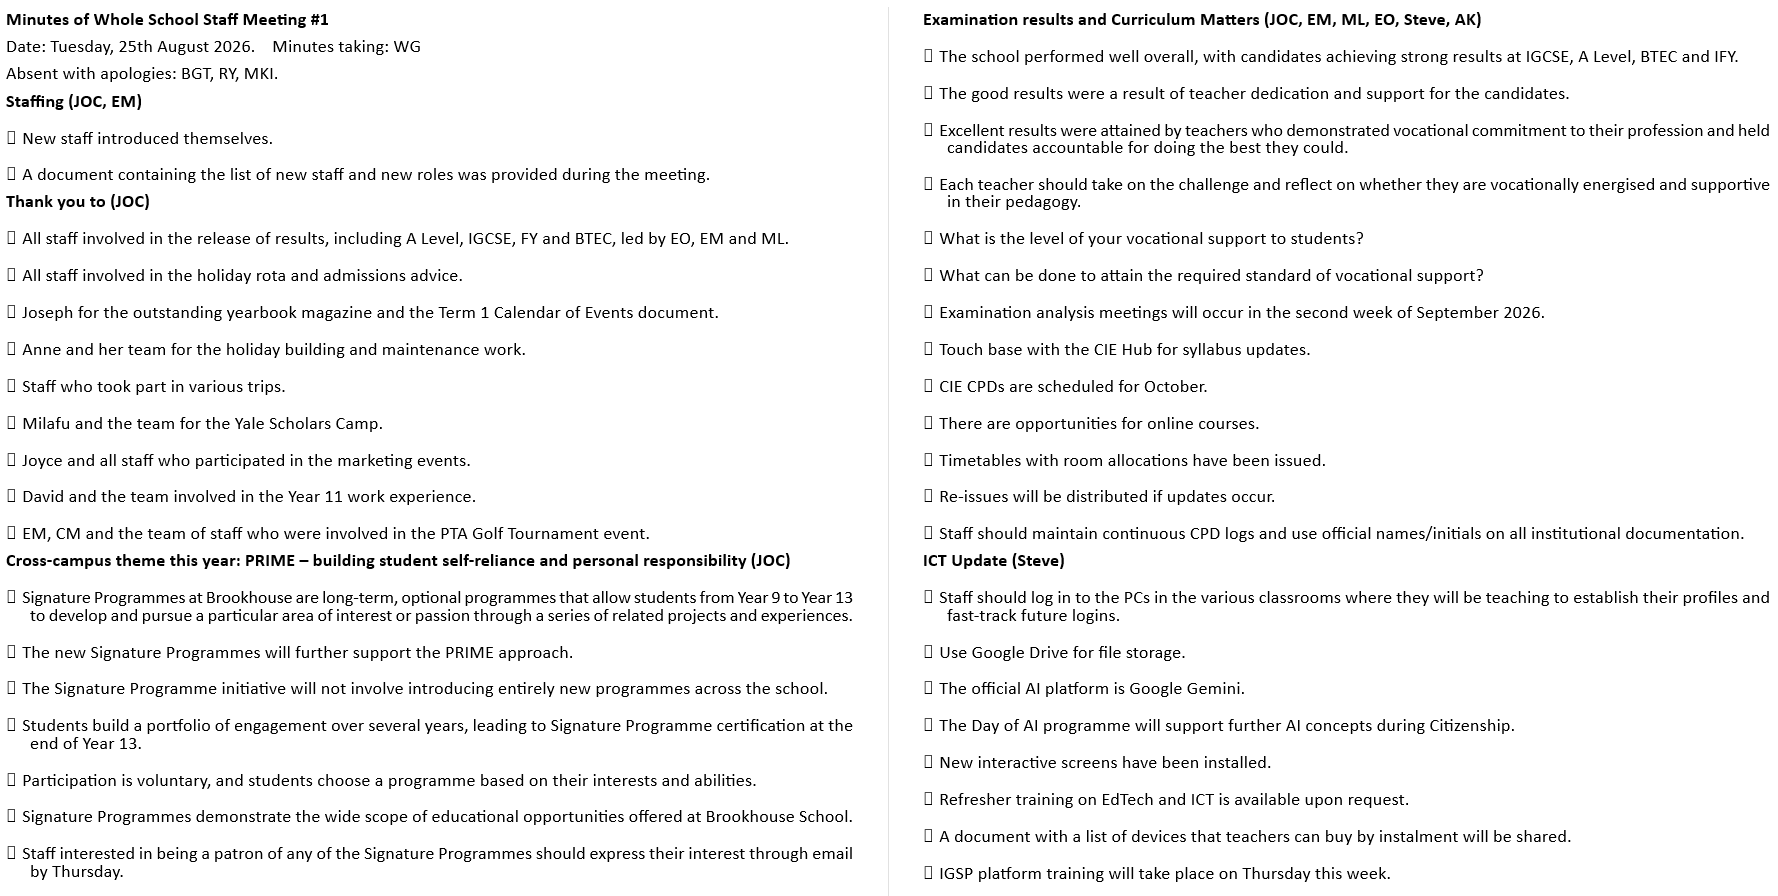
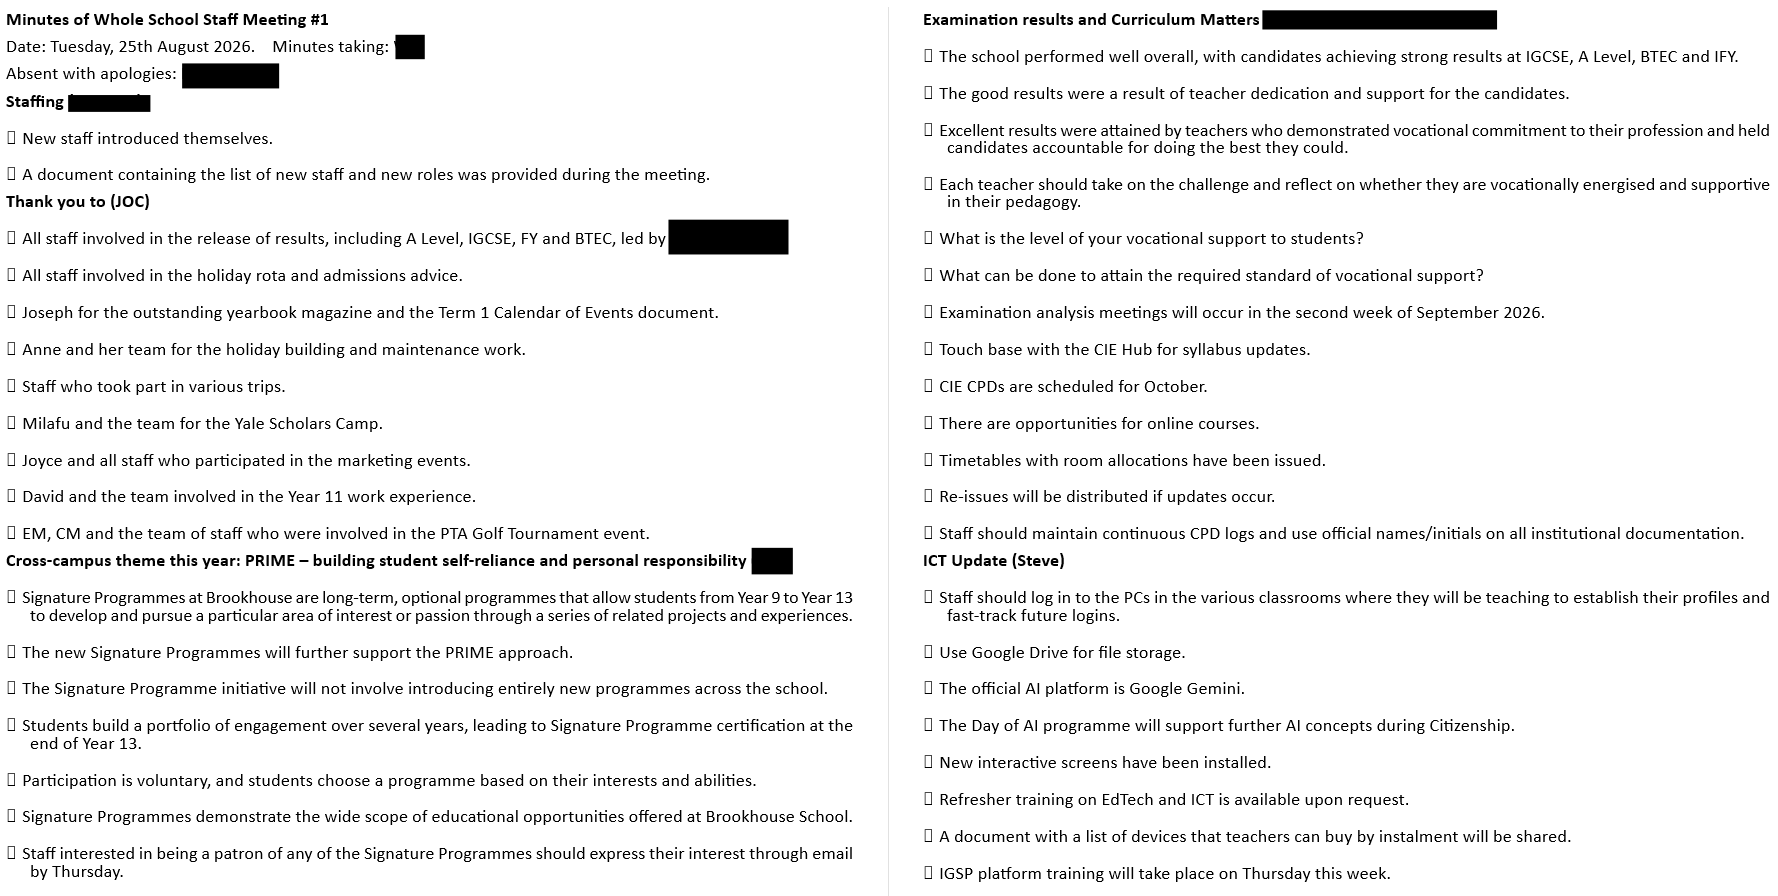
updates

diff --git a/src/data/ideals.js b/src/data/ideals.js
@@ -564,7 +564,7 @@ export const pillars = [
             src: getAsset(
               "Democracy/Students/Prefect-Application-Learner_s-voice.png",
             ),
-            caption: "Prefect Application Learner s voice",
+            caption: "Secondary Prefect Application",
           },
           {
             src: getAsset("Democracy/Students/Prep-Leader-Application.png"),
@@ -589,12 +589,12 @@ export const pillars = [
             ),
             caption: "Minutes of Whole School Staff Meeting No.1 2026 pg2",
           },
-          {
-            src: getAsset(
-              "Democracy/Staff/Staff-management-structure-2026-sept-admin.png",
-            ),
-            caption: "Staff management structure 2026 sept admin",
-          },
+          // {
+          //   src: getAsset(
+          //     "Democracy/Staff/Staff-management-structure-2026-sept-admin.png",
+          //   ),
+          //   caption: "Staff management structure 2026 sept admin",
+          // },
         ],
       },
     ],
@@ -626,19 +626,23 @@ export const pillars = [
             src: getAsset(
               "Environmentalism/Alumni/Richard-Turere-Lion-Lights.jpg",
             ),
-            caption: "Richard Turere Lion Lights",
+            caption:
+              "Brookhouse Alumni, Richard Turere Invents Method to Save Wildlife and Humans Across Continents.",
           },
           {
             src: getAsset("Environmentalism/Alumni/Dr-Sharon-Mulindi.jpg"),
-            caption: "Dr Sharon Mulindi",
+            caption:
+              "Brookhouse Alumni, Dr Sharon Mulindi, Kenyan Conservationist.",
           },
           {
             src: getAsset("Environmentalism/Alumni/Michelle-Muturi.jpg"),
-            caption: "Michelle Muturi",
+            caption:
+              "Brookhouse Alumni, Michelle Muturi, Environmental Innovator.",
           },
           {
             src: getAsset("Environmentalism/Alumni/Maureen-Some.jpg"),
-            caption: "Maureen Some",
+            caption:
+              "Brookhouse Alumni, Maureen Some, Conservationist and Youth Leader.",
           },
         ],
       },
@@ -688,7 +692,7 @@ export const pillars = [
             src: getAsset(
               "Environmentalism/Students/Service-Learning-Activities-in-Prep,-Term-3-2025-26.png",
             ),
-            caption: "Service Learning Activities in Prep, Term 3 2025 26",
+            caption: "Service Learning Activities in Prep, Term 3, 2025-26",
           },
         ],
       },
@@ -743,19 +747,19 @@ export const pillars = [
         media: [
           {
             src: getAsset("Adventure/Parents/adventure.JPG"),
-            caption: "adventure",
+            caption: "Tree Planting As a Family",
           },
           {
             src: getAsset("Adventure/Parents/IMG_2312.jpg"),
-            caption: "IMG 2312",
+            caption: "Parents Donate Plastic Bottles for Reuse",
           },
           {
             src: getAsset("Adventure/Parents/IMG_3578.jpeg"),
-            caption: "IMG 3578",
+            caption: "PTA Attend Opening Ceremony with a Community Partner",
           },
           {
             src: getAsset("Adventure/Parents/IMG_20231007.jpg"),
-            caption: "IMG 20231007",
+            caption: "Brookhouse Parents Develops Recycling Project",
           },
         ],
       },
